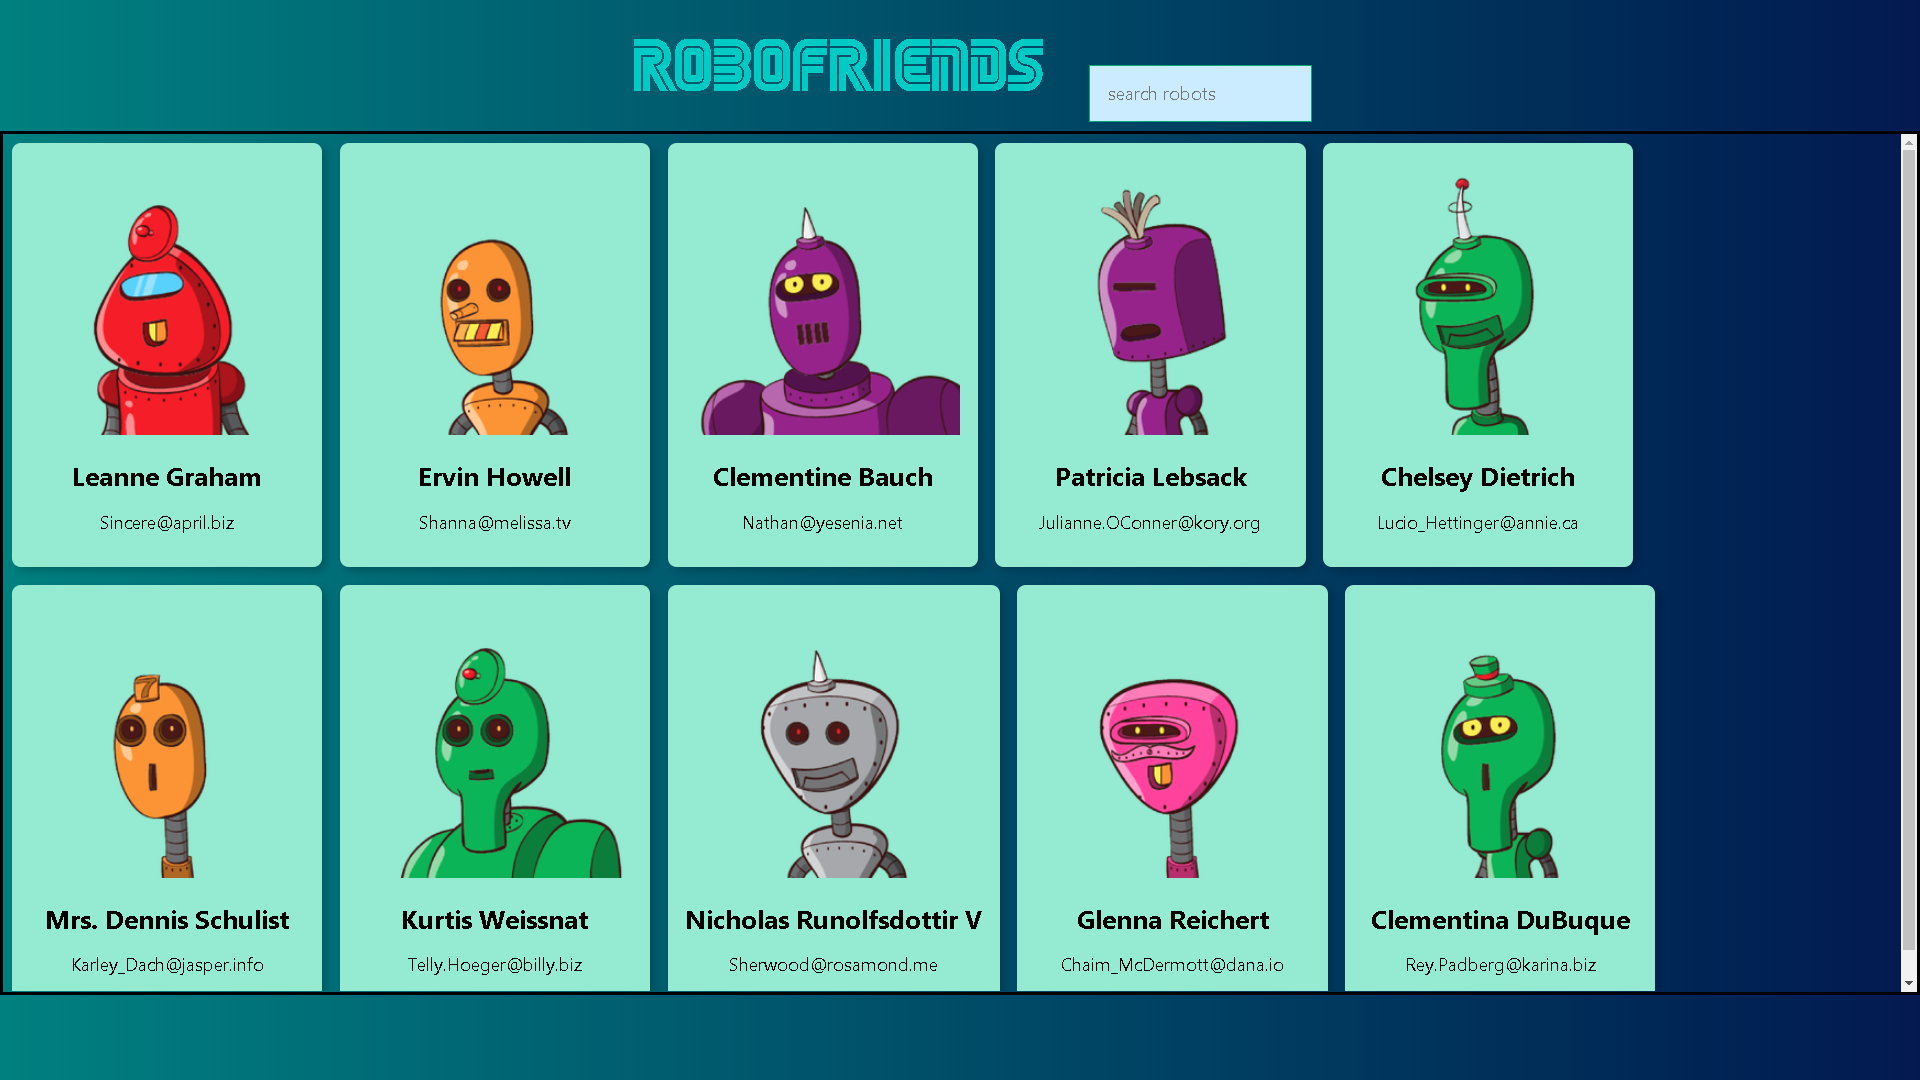
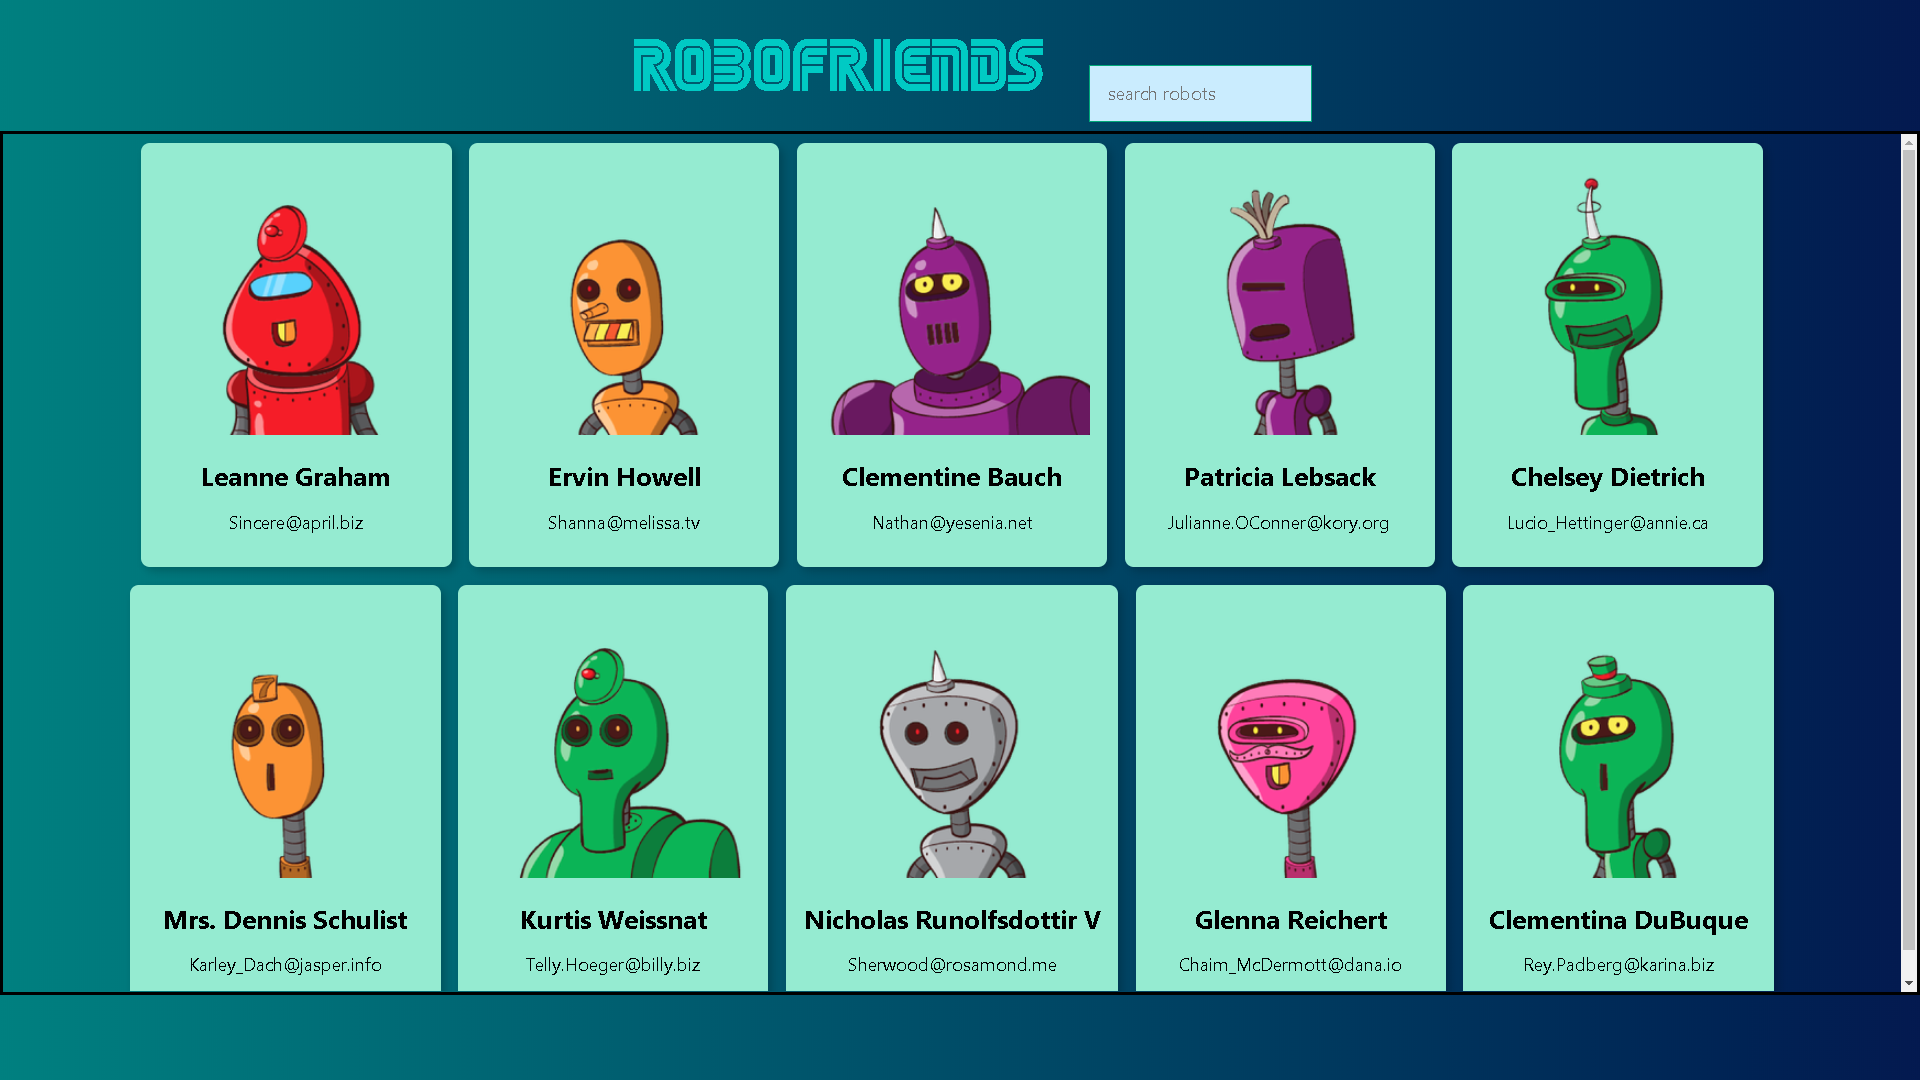
refinements

diff --git a/src/containers/App.js b/src/containers/App.js
@@ -36,7 +36,7 @@ class App extends Component {
 						<h1 className='f1 mh4'>RoboFriends</h1>
 						<SearchBox searchChange={this.onSearchChange}/>
 					</header>
-					<main>
+					<main className='tc'>
 						<Scroll>
 							<CardList robots={ filteredRobots } />
 						</Scroll>
